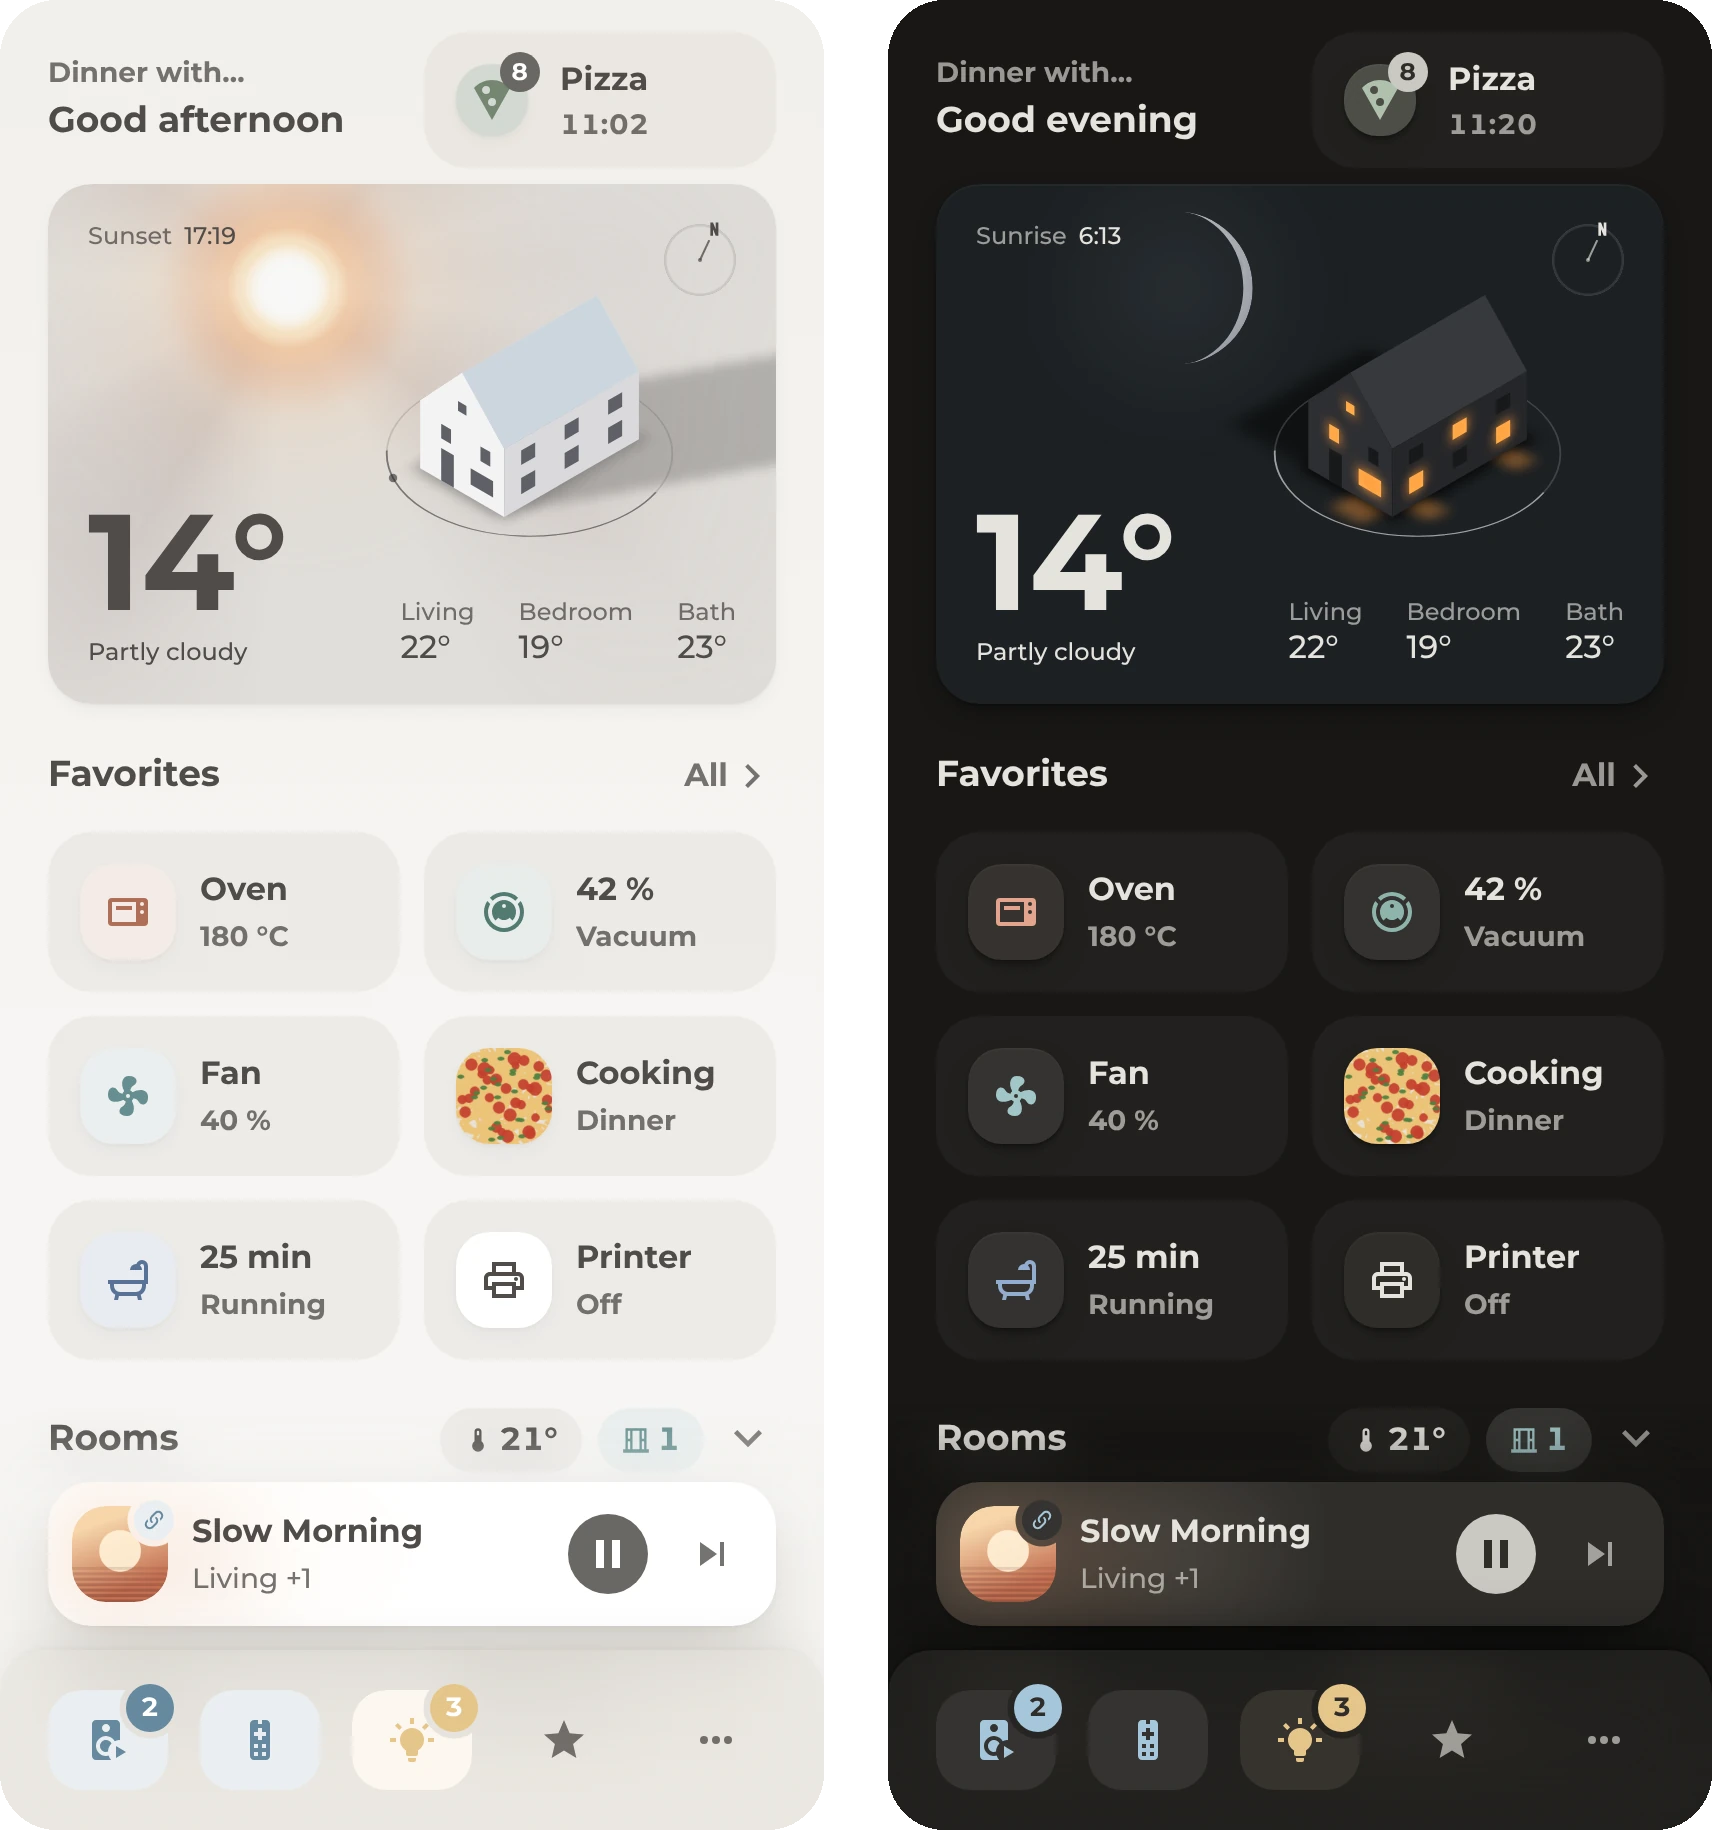
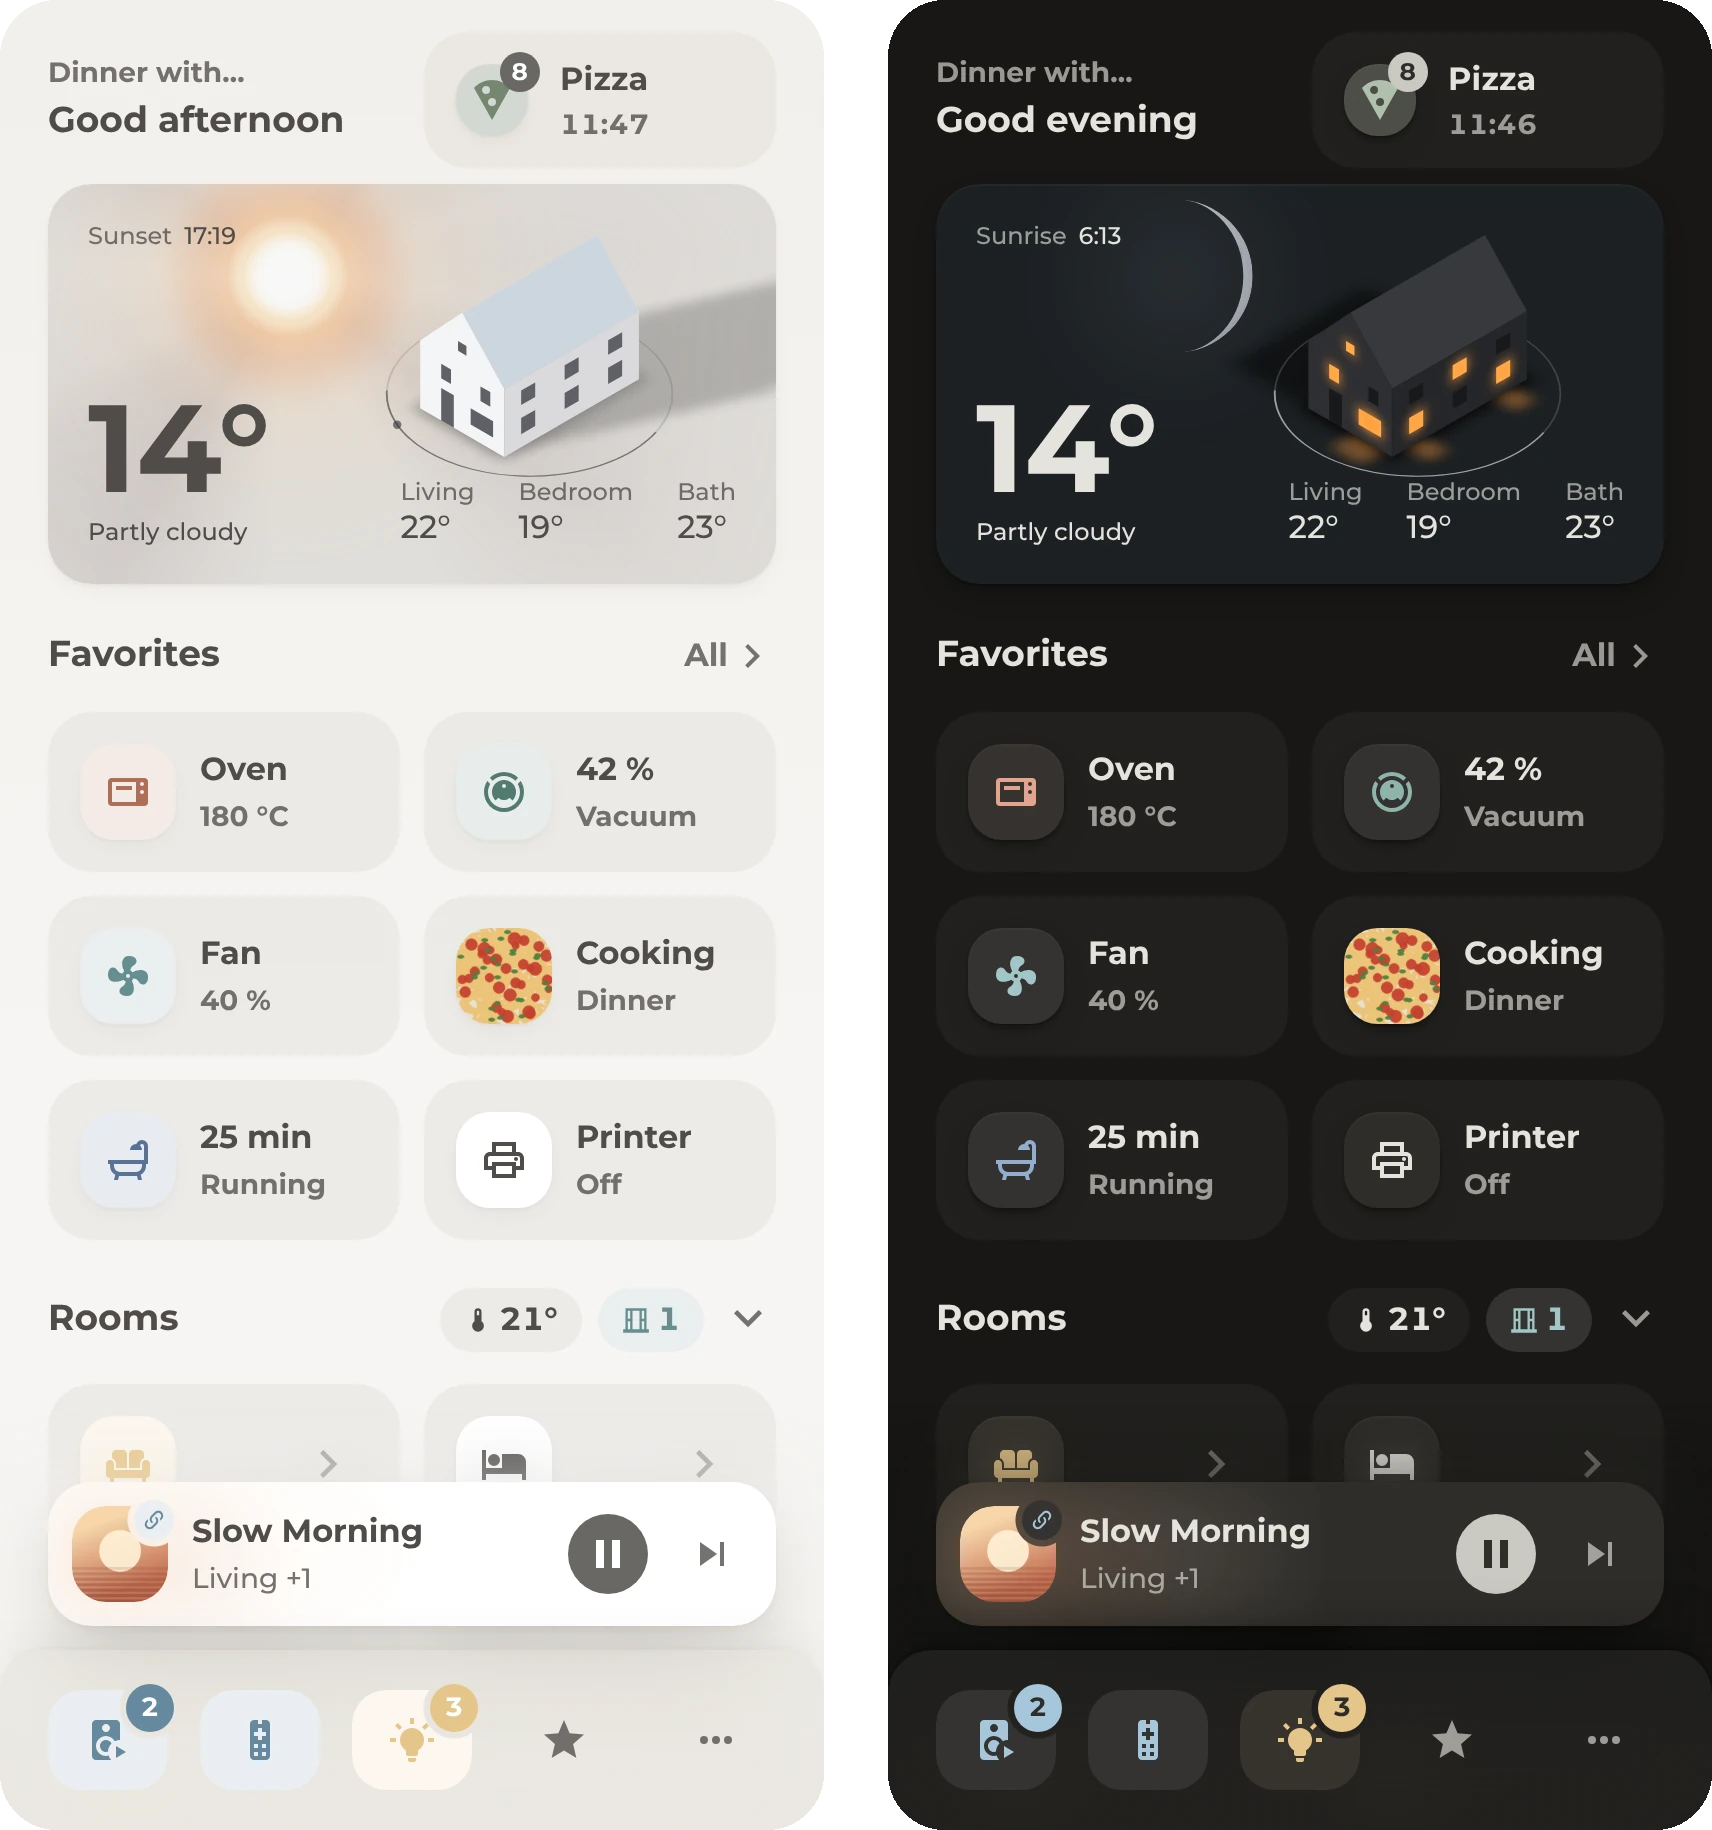
Update the weather card to the final layout
A lower card with a bolder temperature, the room temperatures from the
climate helpers, and no compass.

diff --git a/docs/dashboard.md b/docs/dashboard.md
@@ -37,15 +37,14 @@ An [Origami Weather](https://github.com/hazymorning/origami_weather) card: a cal
 - Each condition has its own background colour for light and dark mode, set in `background_thresholds`. Clouds, stars, birds, balloons and planes are off.
 - Top left is the next sunset, or the next sunrise while the sun is down. They are two buttons with a visibility condition on `sun.sun`.
 - The large number is the weather entity's temperature. For an outdoor sensor of your own, give that text element an `entity` instead of the `attribute`.
-- Bottom right are three rooms. Each is a temperature sensor with a label.
-- The small ring top right marks north.
+- Bottom right are three rooms, each a [climate helper](helpers.md#room-climate-sensor) with a label.
 - The house is the card's demo house. The dashboard this comes from has a drawing of the actual home instead, with a lit window per room while its lights are on. The [Origami Weather readme](https://github.com/hazymorning/origami_weather#layouts) explains how to make one.
 
 | Entity | For |
 | --- | --- |
 | `weather.home` | Condition, background colour and temperature |
 | `sun.sun` | Next sunset or sunrise |
-| `sensor.living_room_temperature`, `sensor.bedroom_temperature`, `sensor.bathroom_temperature` | The three rooms |
+| `sensor.climate_living_room`, `sensor.climate_bedroom`, `sensor.climate_bathroom` | The three rooms |
 
 ## Favorites
 

diff --git a/docs/helpers.md b/docs/helpers.md
@@ -4,7 +4,7 @@ Template sensors do the thinking, the cards only show the result. All of them an
 
 | Helper | Gives | Read by |
 | --- | --- | --- |
-| `sensor.climate_<room>` | Rounded temperature and humidity, rank, comfort colour | Climate table, room cards |
+| `sensor.climate_<room>` | Rounded temperature and humidity, rank, comfort colour | Climate table, room cards, weather |
 | `sensor.climate_temperature_peaks`, `sensor.climate_humidity_peaks` | Warmest and most humid room, the lowest as attribute | The room sensors |
 | `sensor.temperature_average`, `sensor.humidity_average` | Averages over all rooms | `sensor.climate_home` |
 | `sensor.climate_home` | Averages, open windows, front door | Rooms header, status row |
